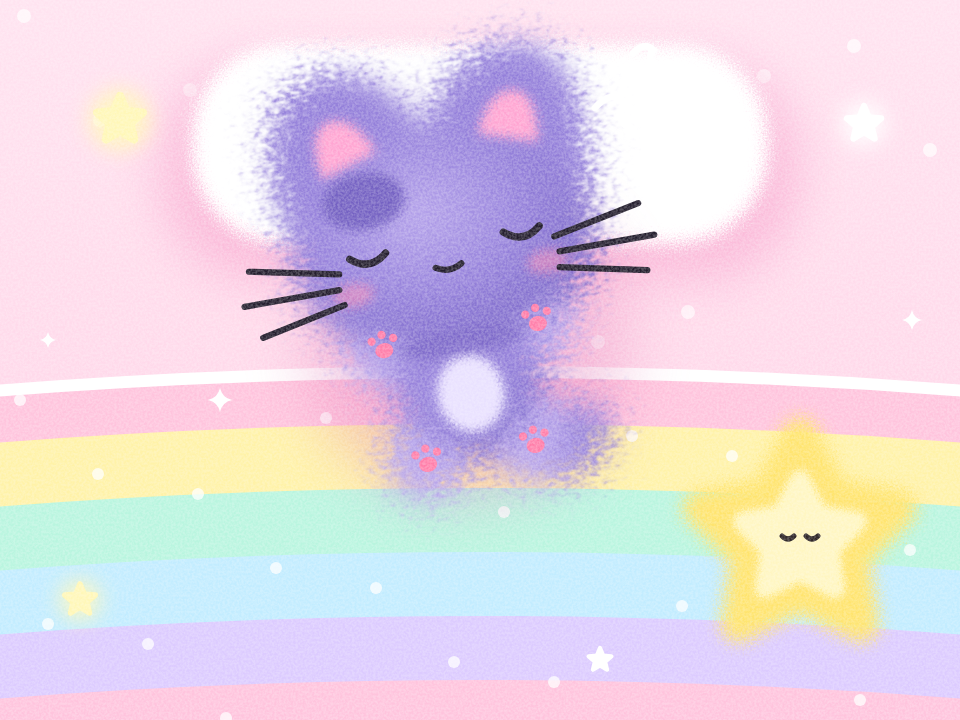
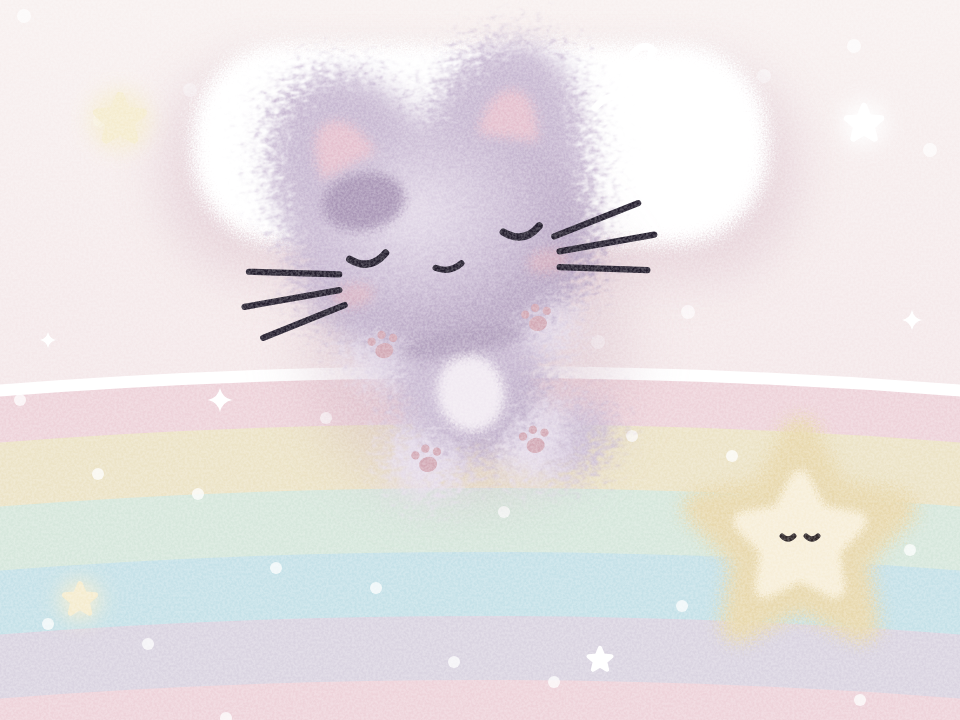
Refresh all three gallery illustrations with milky marshmallow colours

diff --git a/README.zh-CN.md b/README.zh-CN.md
@@ -4,7 +4,7 @@
 |:---:|:---:|:---:|
 | [![池塘漂漂](examples/pond-float.png)](examples/pond-float.svg) | [![三叶草午睡](examples/clover-nap.png)](examples/clover-nap.svg) | [![彩虹被子](examples/rainbow-quilt.png)](examples/rainbow-quilt.svg) |
 
-大头小身子、仰面躺着的圆滚滚小动物，从正上方俯视。**耳尖、两腮和脚掌外缘散成细软的绒毛，眼睛、ω 嘴、胡须和肉垫保持清晰。** 线条一律加粗、圆头，眼睛不加高光、间距开得很宽，嘴巴大一点，整体是钝钝的笨萌感。 颜色是明亮干净的多巴胺糖果色（纯色兑白，不兑灰、不兑棕），整体造型像棉花糖：四肢粗短，耳朵鼓鼓囊囊，没有细条和尖角。装饰元素硬边星星和柔光混用。
+大头小身子、仰面躺着的圆滚滚小动物，从正上方俯视。**耳尖、两腮和脚掌外缘散成细软的绒毛，眼睛、ω 嘴、胡须和肉垫保持清晰。** 线条一律加粗、圆头，眼睛不加高光、间距开得很宽，嘴巴大一点，整体是钝钝的笨萌感。 例图采用草莓奶粉、浅薄荷绿和奶油黄，整体造型像棉花糖：四肢粗短，耳朵鼓鼓囊囊，没有细条和尖角。装饰元素硬边星星和柔光混用。
 
 **聊天窗**只需上传 `SKILL.md`，告诉它几只什么动物、在什么地方躺着。想从现成卡片改起，附上 `references/template.svg`。
 

diff --git a/README.md b/README.md
@@ -4,7 +4,7 @@
 |:---:|:---:|:---:|
 | [![Pond Float](examples/pond-float.png)](examples/pond-float.svg) | [![Clover Nap](examples/clover-nap.png)](examples/clover-nap.svg) | [![Rainbow Quilt](examples/rainbow-quilt.png)](examples/rainbow-quilt.svg) |
 
-Big-headed, tiny-bodied animals napping on their backs, seen from above. **Silhouettes feather out into loose fibres; eyes, ω mouths, whiskers and toe beans stay crisp** — thick, round-ended lines, wide-set eyes with no highlights, a big ω mouth. Bright dopamine candy colours, marshmallow-plump limbs and ears, hard stars with soft glows.
+Big-headed, tiny-bodied animals napping on their backs, seen from above. **Silhouettes feather out into loose fibres; eyes, ω mouths, whiskers and toe beans stay crisp** — thick, round-ended lines, wide-set eyes with no highlights, a big ω mouth. The gallery uses milky pink, pale mint and buttercream colours, marshmallow-plump limbs and ears, hard stars with soft glows.
 
 **In a chat window**, upload `SKILL.md` and describe the animals and where they're lying. Attach `references/template.svg` to start from a finished card.
 
